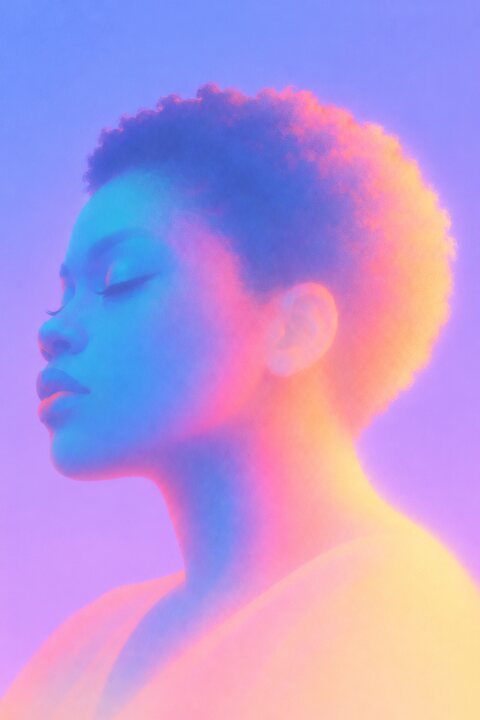
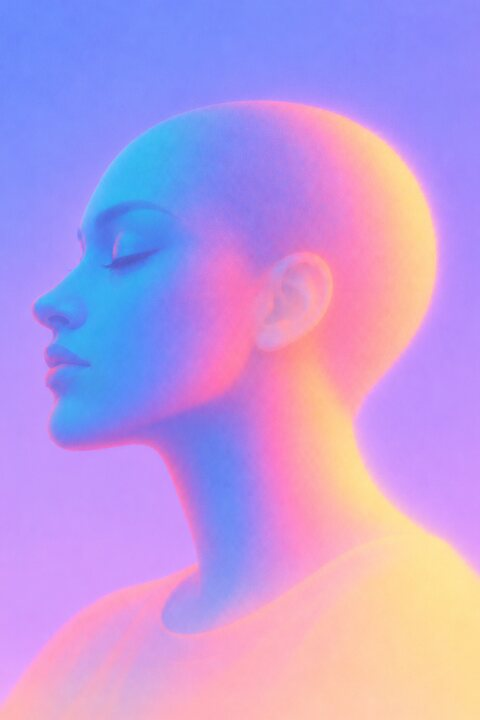
Org chart: the twelfth portrait is Sandra's, not Tama's
The look-alike pair the maintainer meant was Ben and Sandra (portraits 08 and 01),
not Philip and Tama. Sandra gets portrait 12; Tama gets 09 back.

diff --git a/Images/README.md b/Images/README.md
@@ -10,7 +10,7 @@ Images made for this repository, kept as they came out so they can be reused: in
 - B: backlit side profile, lilac-to-peach sky;
 - C: glowing side profile, periwinkle-to-violet background.
 
-The generator didn't always follow the look, and `portrait-03-C.png` faces right where the others face left. `portrait-12.png` was made later, to replace `portrait-09-C.png` on the organisational chart, as 09 looked too much like 02.
+The generator didn't always follow the look, and `portrait-03-C.png` faces right where the others face left. `portrait-12.png` was made later, to replace `portrait-01-A.png` on the organisational chart, as 01 looked too much like 08.
 
 They were made with ChatGPT image generation and are offered under [CC0 1.0](https://creativecommons.org/publicdomain/zero/1.0/). With thanks to [Novoda](https://www.novoda.com) for the image generation, and to [Jake Lee (@jakelee_art)](https://www.instagram.com/jakelee_art/), whose dreamy gradient portraits inspired the style.
 
